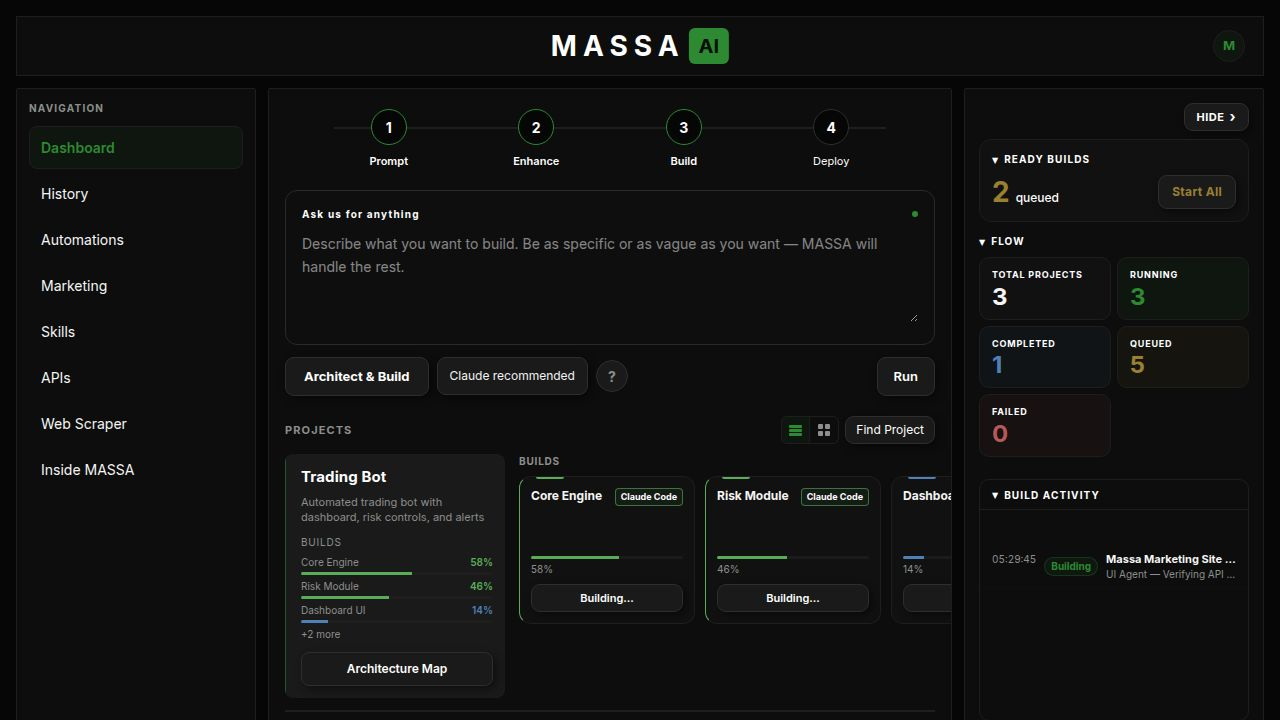
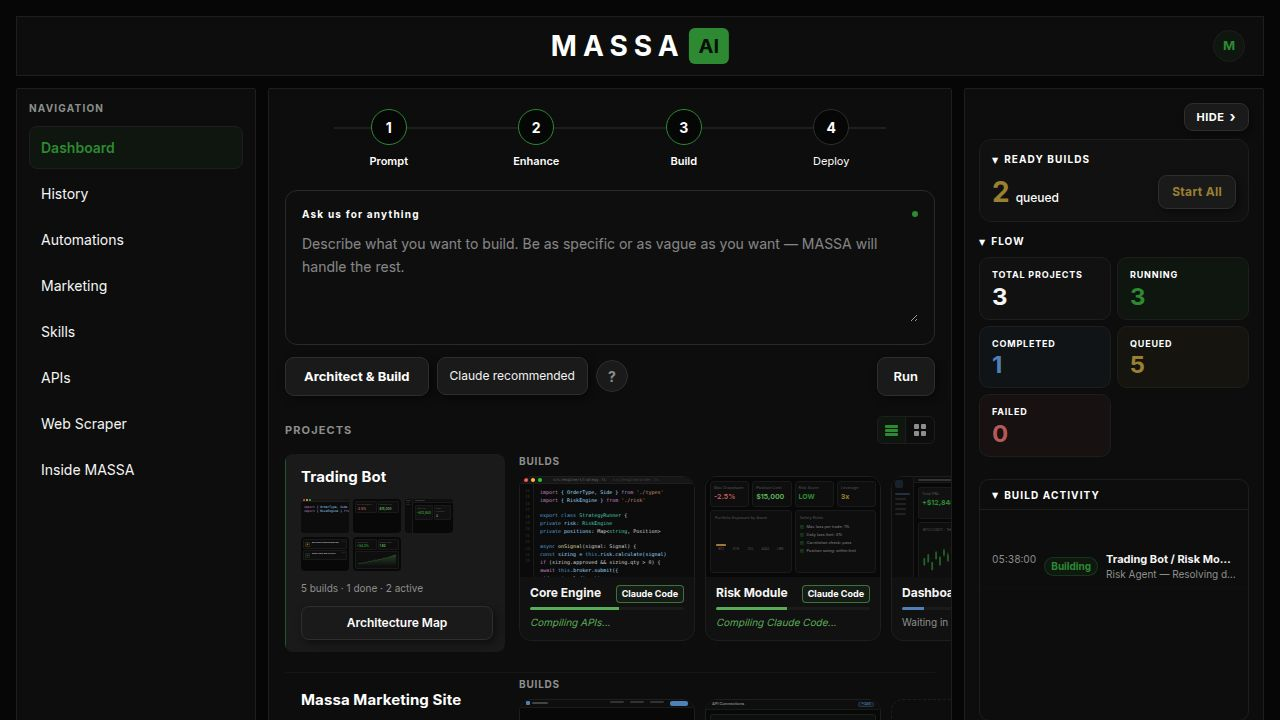
Task #39: Remove Find Project button & stronger project separation
Changes:
- Removed the "Find Project" button from the Overview projects header section
- Increased visual separation between projects in both Row and Card views:
  - Container gap increased from 0 to 24px for generous spacing between projects
  - Row view projects now wrapped in distinct card-like containers with border,
    border-radius 12px, padding 14px, and background color (c.alt) - making
    each project clearly stand apart as its own visual unit
  - Card view already had bordered containers and now benefits from the larger
    24px gap between cards
  - Removed the old thin 2px divider line since card containers provide stronger
    visual separation on their own

Files modified:
- artifacts/massa/src/pages/Overview.tsx

Replit-Task-Id: 57886c35-e6b0-4ab7-b319-ca5546ddb4e6

diff --git a/artifacts/massa/src/pages/Overview.tsx b/artifacts/massa/src/pages/Overview.tsx
@@ -1052,12 +1052,11 @@ export function Overview() {
                   </svg>
                 </button>
               </div>
-              <div style={{ fontSize: 12, color: '#ffffff', cursor: 'pointer', border: '1px solid #2e2e2e', padding: '4px 10px', borderRadius: 9, background: '#1a1a1a', boxShadow: '3px 3px 8px rgba(0,0,0,0.45)', transition: 'background 0.15s' }} onMouseEnter={e => e.currentTarget.style.background = '#242424'} onMouseLeave={e => e.currentTarget.style.background = '#1a1a1a'}>Find Project</div>
             </div>
           </div>
 
           {/* Projects list */}
-          <div style={{ display: 'flex', flexDirection: 'column', gap: 0 }}>
+          <div style={{ display: 'flex', flexDirection: 'column', gap: 24 }}>
             {projects.map((project, pi) => {
               const isSel = selectedProjectId === project.id
               const buildCards = (column: boolean, wrap = false) => (
@@ -1135,12 +1134,10 @@ export function Overview() {
 
               return (
                 <div key={project.id}>
-                  {pi > 0 && <div style={{ height: 2, background: c.border, margin: '12px 0' }} />}
-
                   {viewMode === 'row' ? (
                     /* ── ROW VIEW (default) ── */
                     <div
-                      style={{ display: 'grid', gridTemplateColumns: '220px 1fr', gap: 14, alignItems: 'start', position: 'relative' }}>
+                      style={{ display: 'grid', gridTemplateColumns: '220px 1fr', gap: 14, alignItems: 'start', position: 'relative', border: `1px solid ${c.border}`, borderRadius: 12, padding: 14, background: c.alt }}>
 
                       <div onClick={() => setSelectedProjectId(project.id)} style={{ background: isSel ? c.blackGreen : 'transparent', borderRadius: 8, padding: '12px 12px 12px 0', cursor: 'pointer', position: 'relative', overflow: 'hidden' }}>
                         <div style={{ position: 'absolute', top: 0, left: 0, bottom: 0, width: 1, background: isSel ? `${c.green}88` : 'transparent', borderRadius: '8px 0 0 8px' }} />